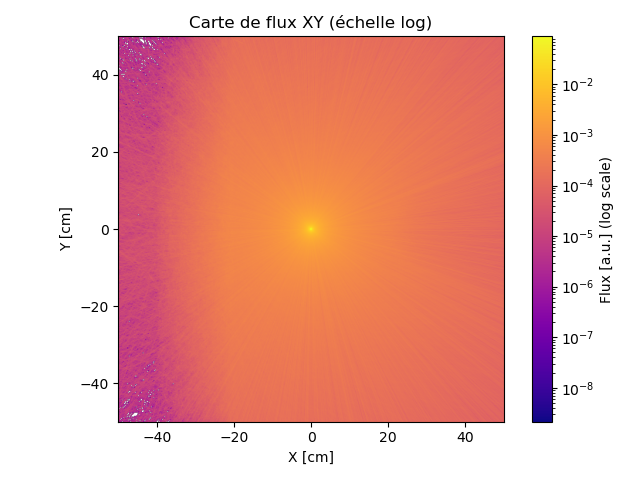
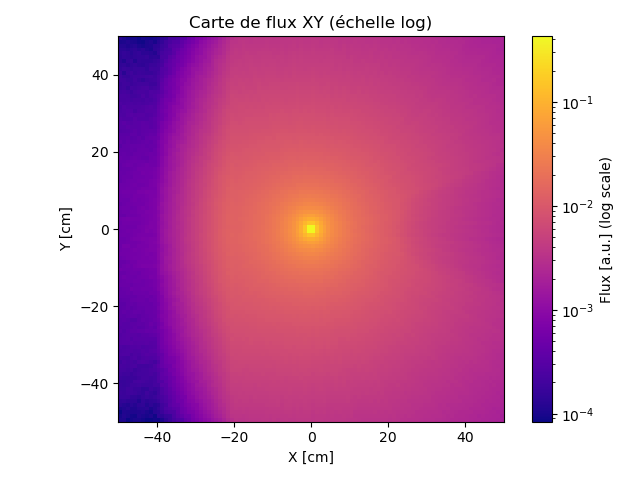
feat:add_concrete_wall

diff --git a/src/studies/simulation_cs_137/cesium.py b/src/studies/simulation_cs_137/cesium.py
@@ -14,6 +14,7 @@ project_root = Path(__file__).resolve().parents[3]  # remonte de src/studies/sim
 sys.path.append(str(project_root))
 from parameters.parameters_paths import PATH_TO_CROSS_SECTIONS
 from parameters.parameters_materials import CS137_MATERIAL, CDTE_MATERIAL, AIR_MATERIAL, CONCRETE_MATERIAL
+from src.utils.pre_processing.pre_processing import remove_previous_results
 os.environ["OPENMC_CROSS_SECTIONS"] = PATH_TO_CROSS_SECTIONS
 
 materials = openmc.Materials([CS137_MATERIAL, CDTE_MATERIAL, AIR_MATERIAL, CONCRETE_MATERIAL])
@@ -21,7 +22,7 @@ materials = openmc.Materials([CS137_MATERIAL, CDTE_MATERIAL, AIR_MATERIAL, CONCR
 # Surfaces
 sphere = openmc.Sphere(r=1.0, surface_id=1)
 detector = openmc.Sphere(x0=30., r=10.0, surface_id=2)
-outer_boundary = openmc.Sphere(r=100.0, surface_id=3, boundary_type='vacuum')  # Limite du monde
+outer_boundary = openmc.Sphere(r=200.0, surface_id=3, boundary_type='vacuum')  # Limite du monde
 
 # Concrete wall surfaces
 wall_xmin = openmc.XPlane(x0=-40, surface_id=10)
@@ -45,7 +46,7 @@ wall_region = +wall_xmin & -wall_xmax & +wall_ymin & -wall_ymax & +wall_zmin & -
 wall_cell = openmc.Cell(name="concrete_wall", fill=CONCRETE_MATERIAL, region=wall_region)
 
 # Air cell (everything else inside the outer boundary, minus source, detector, and wall)
-outer_boundary_cell = -outer_boundary & +detector
+outer_boundary_cell = -outer_boundary 
 void_region = outer_boundary_cell & ~source_cell.region & ~detector_cell.region & ~wall_region
 void_cell = openmc.Cell(name="air_cell", fill=AIR_MATERIAL, region=void_region)
 
@@ -74,7 +75,7 @@ tallies = openmc.Tallies([tally])
 
 # Mesh tally de dose 
 mesh = openmc.RegularMesh()
-mesh.dimension = [500, 500]  # XY
+mesh.dimension = [100, 100]  # XY
 mesh.lower_left = [-50.0, -50.0]
 mesh.upper_right = [50.0, 50.0]
 
@@ -98,12 +99,14 @@ tallies.append(energy_dep_tally)
 
 # Configuration de la simulation
 settings = openmc.Settings()
-batches_number = 10
+batches_number = 100
 settings.batches = batches_number
-settings.particles = 10**5
+settings.particles = 10**4
 settings.source = source
 settings.photon_transport = True 
 settings.run_mode = "fixed source"
+settings.verbose = True
+
 
 # Export des fichiers nécessaires pour la simulation
 materials.export_to_xml()
@@ -112,11 +115,9 @@ settings.export_to_xml()
 tallies.export_to_xml()
 
 # Exécution de la simulation
-if os.path.exists("summary.h5"):
-    os.remove("summary.h5")
 
-if os.path.exists(f"statepoint.{batches_number}.h5"):
-    os.remove(f"statepoint.{batches_number}.h5")  #TODO à mettre en fonction dans utils 
+
+remove_previous_results(batches_number)
 
 openmc.run()
 
@@ -145,7 +146,7 @@ sp = openmc.StatePoint(f"statepoint.{batches_number}.h5")
 ### mesh tallty ####
 # Récupérer le tally du maillage
 tally = sp.get_tally(name='flux_mesh')
-flux_data = tally.mean.reshape((500, 500))
+flux_data = tally.mean.reshape((100, 100))
 flux_data /= source.strength   # TODO remplacerr par constante 
 # Affichage avec échelle logarithmique
 plt.imshow(flux_data, 

diff --git a/src/utils/pre_processing/pre_processing.py b/src/utils/pre_processing/pre_processing.py
@@ -1,0 +1,9 @@
+import os
+
+def remove_previous_results(batches_number):
+    summary_path = "summary.h5"
+    statepoint_path = f"statepoint.{batches_number}.h5"
+    if os.path.exists(summary_path):
+        os.remove(summary_path)
+    if os.path.exists(statepoint_path):
+        os.remove(statepoint_path)
